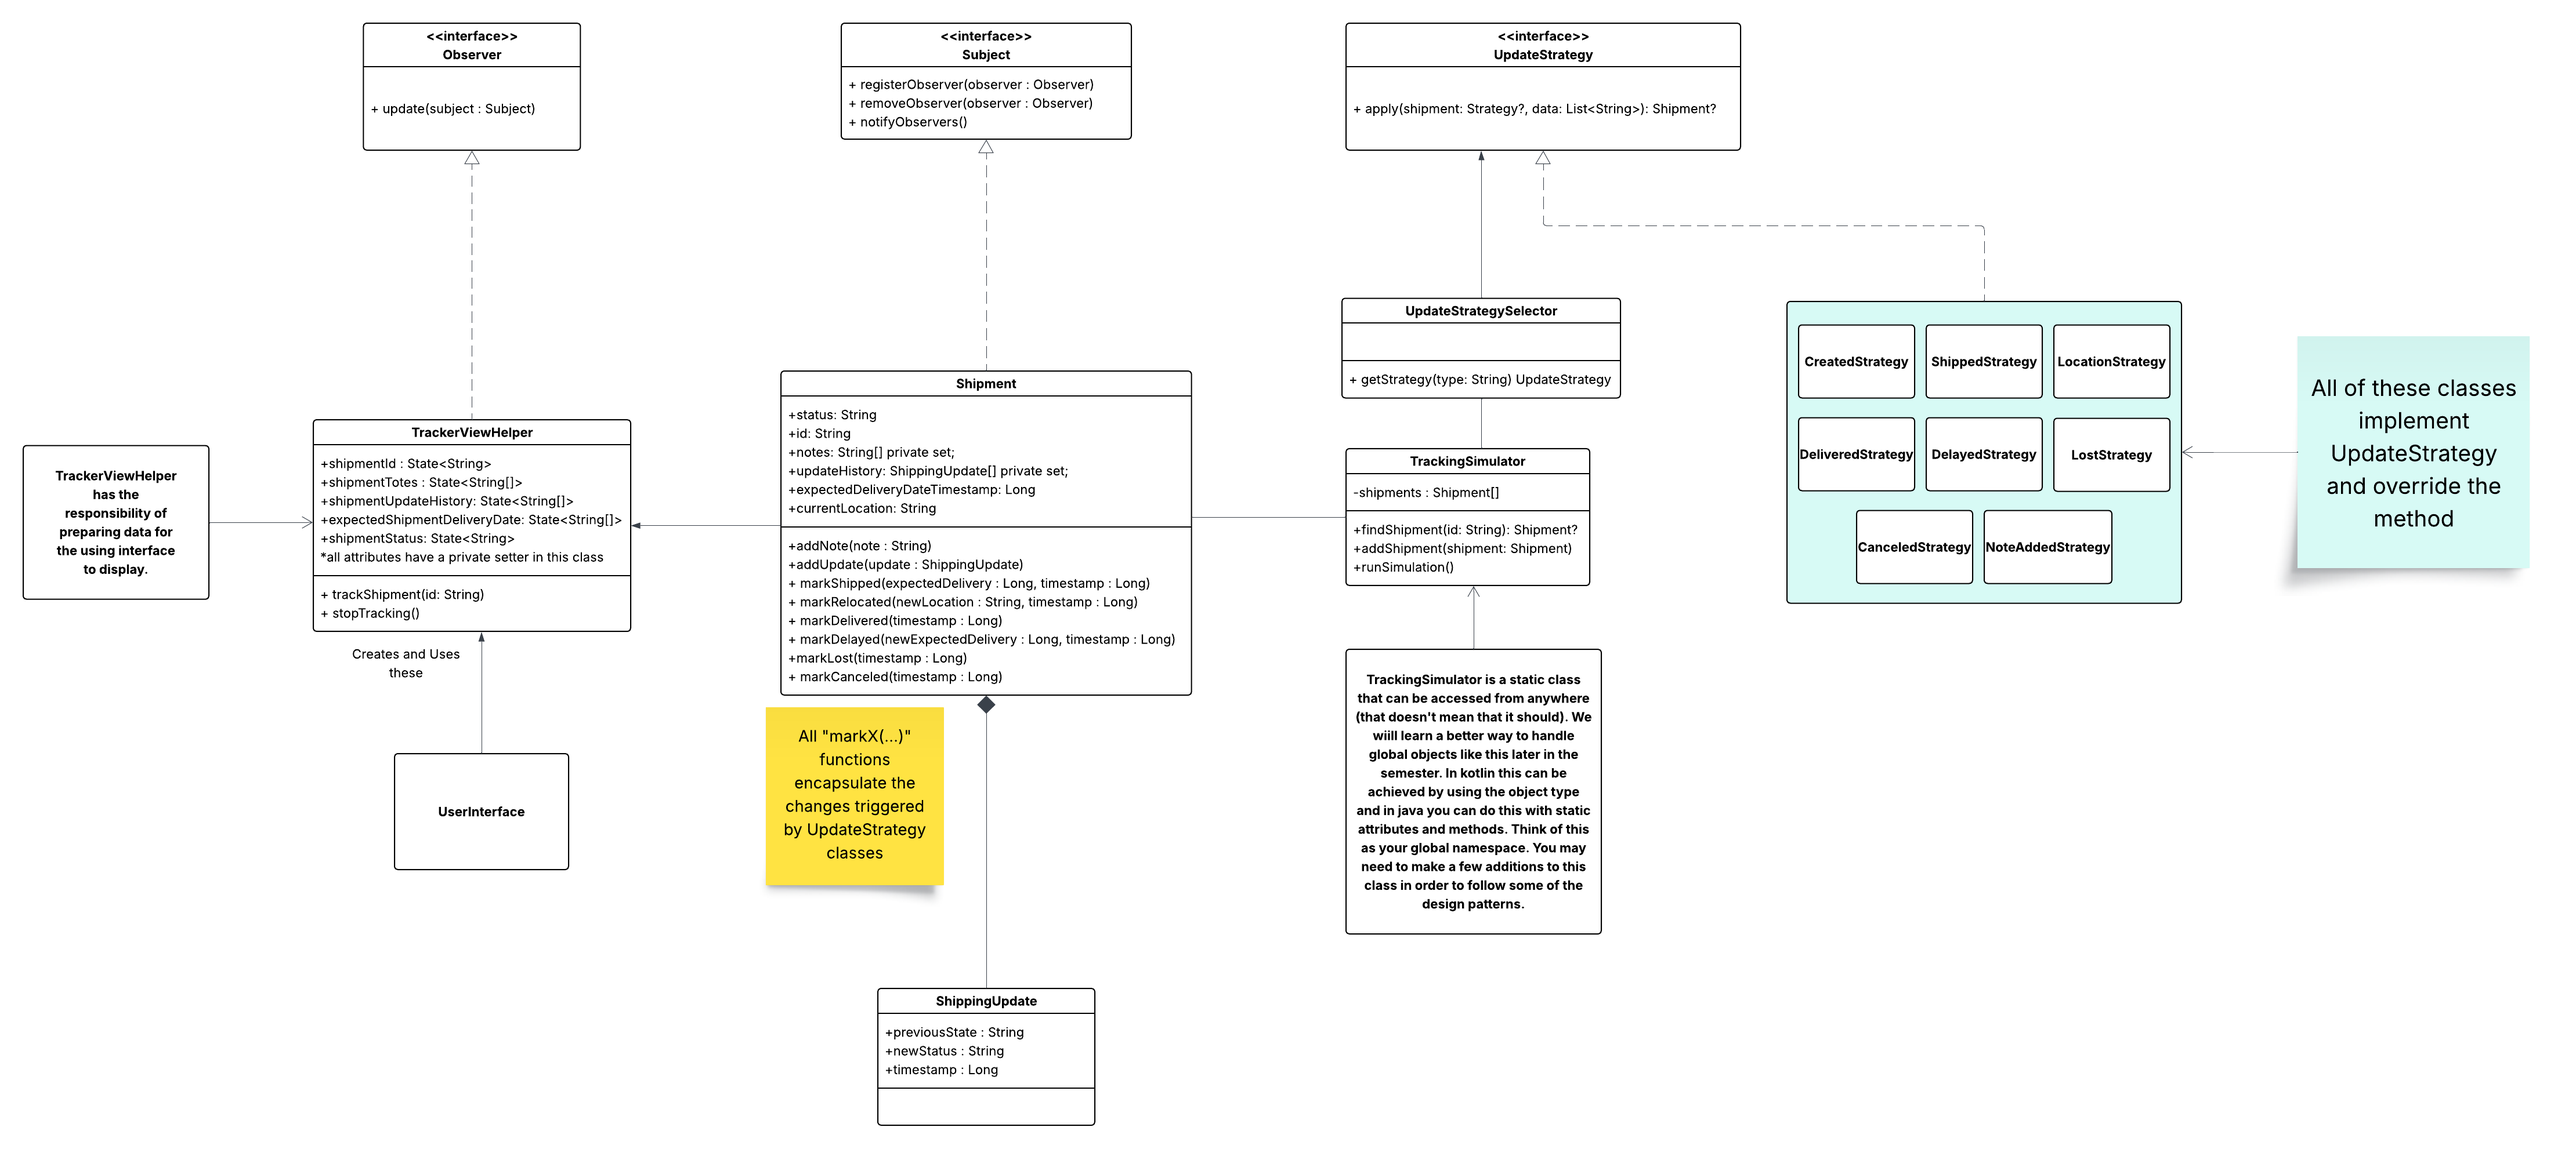
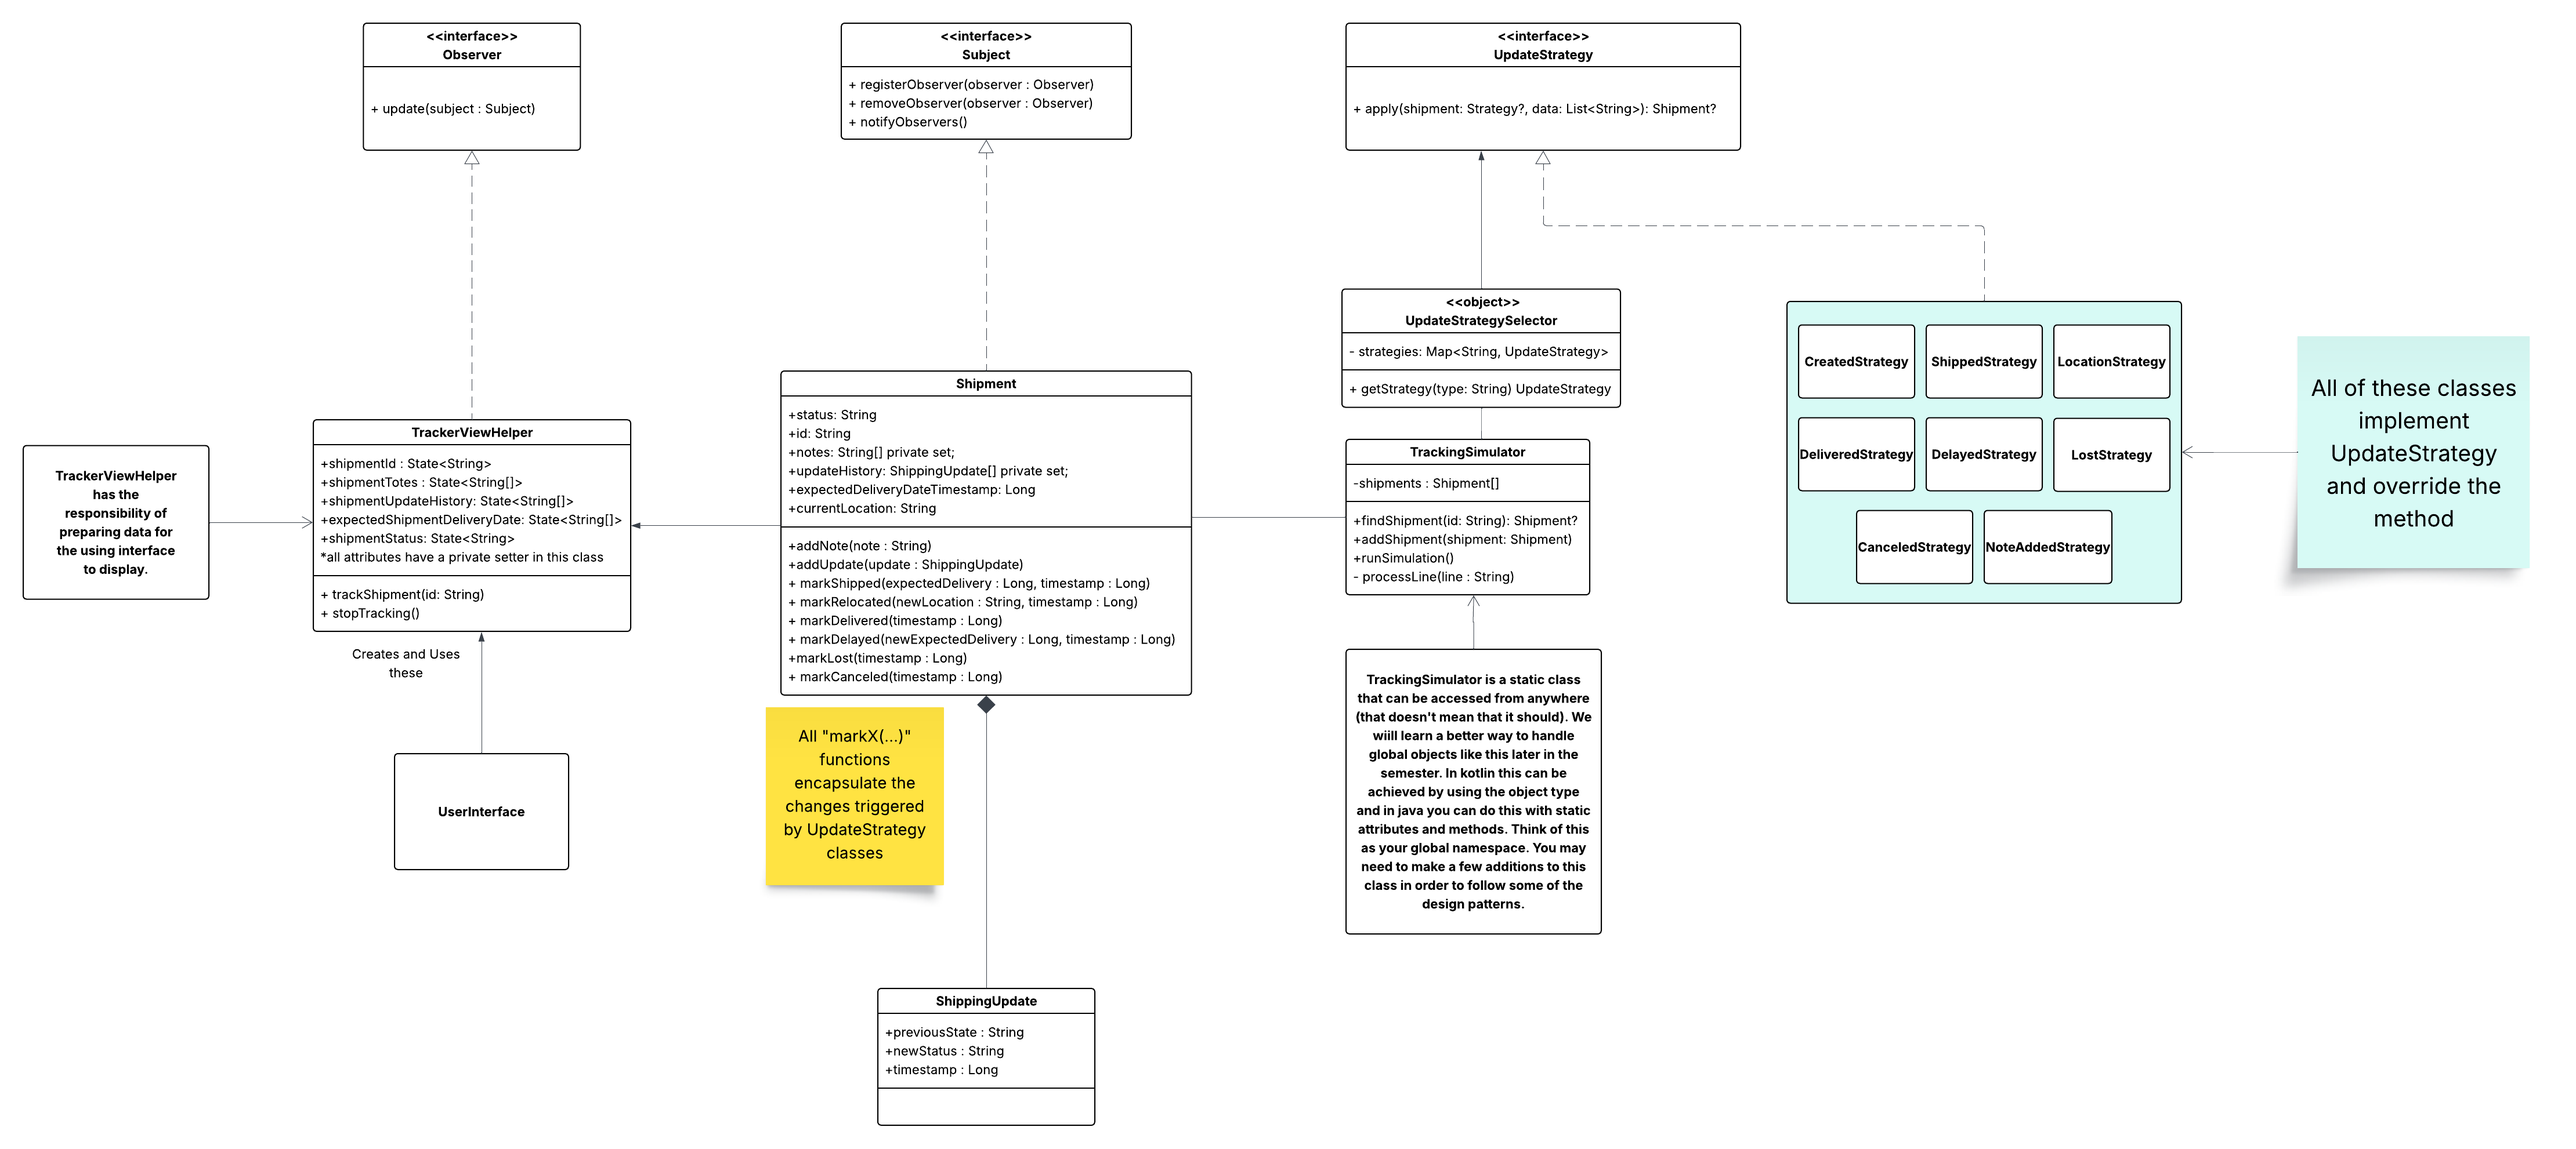
Added TrackingSimulator / UML update

Changed region(s): [[0.5284, 0.2462, 0.6216, 0.5232]]

diff --git a/composeApp/src/desktopMain/kotlin/org/example/project/tracking/TrackingSimulator.kt b/composeApp/src/desktopMain/kotlin/org/example/project/tracking/TrackingSimulator.kt
@@ -1,0 +1,42 @@
+package org.example.project.tracking
+
+import kotlinx.coroutines.runBlocking
+import org.example.project.data.Shipment
+import org.example.project.update.UpdateStrategySelector
+import java.io.File
+
+class TrackingSimulator {
+    private val shipments = mutableMapOf<String, Shipment>()
+
+    fun findShipment(id : String): Shipment? {
+        return shipments[id]
+    }
+
+    fun addShipment(shipment : Shipment) {
+        shipments[shipment.id] = shipment
+    }
+
+    fun runSimulation(file : File) = runBlocking {
+        file.forEachLine { line ->
+            processLine(line)
+
+        }
+    }
+
+    private fun processLine(line : String) {
+        val data = line.split(",")
+        if (data.size < 2) return
+
+        val updateType = data[0].lowercase()
+        val shipmentId = data[1]
+
+        val strategy = UpdateStrategySelector.getStrategy(updateType)
+        val shipment = findShipment(shipmentId)
+
+        val result = strategy?.apply(shipment, data)
+
+        if (updateType == "created" && result != null) {
+            addShipment(result)
+        }
+    }
+}

diff --git a/composeApp/src/desktopMain/kotlin/org/example/project/update/UpdateStrategySelector.kt b/composeApp/src/desktopMain/kotlin/org/example/project/update/UpdateStrategySelector.kt
@@ -1,6 +1,6 @@
 package org.example.project.update
 
-class UpdateStrategySelector {
+object UpdateStrategySelector {
 
     private val strategies : Map<String, UpdateStrategy> = mapOf(
         "created" to CreatedStrategy(),
